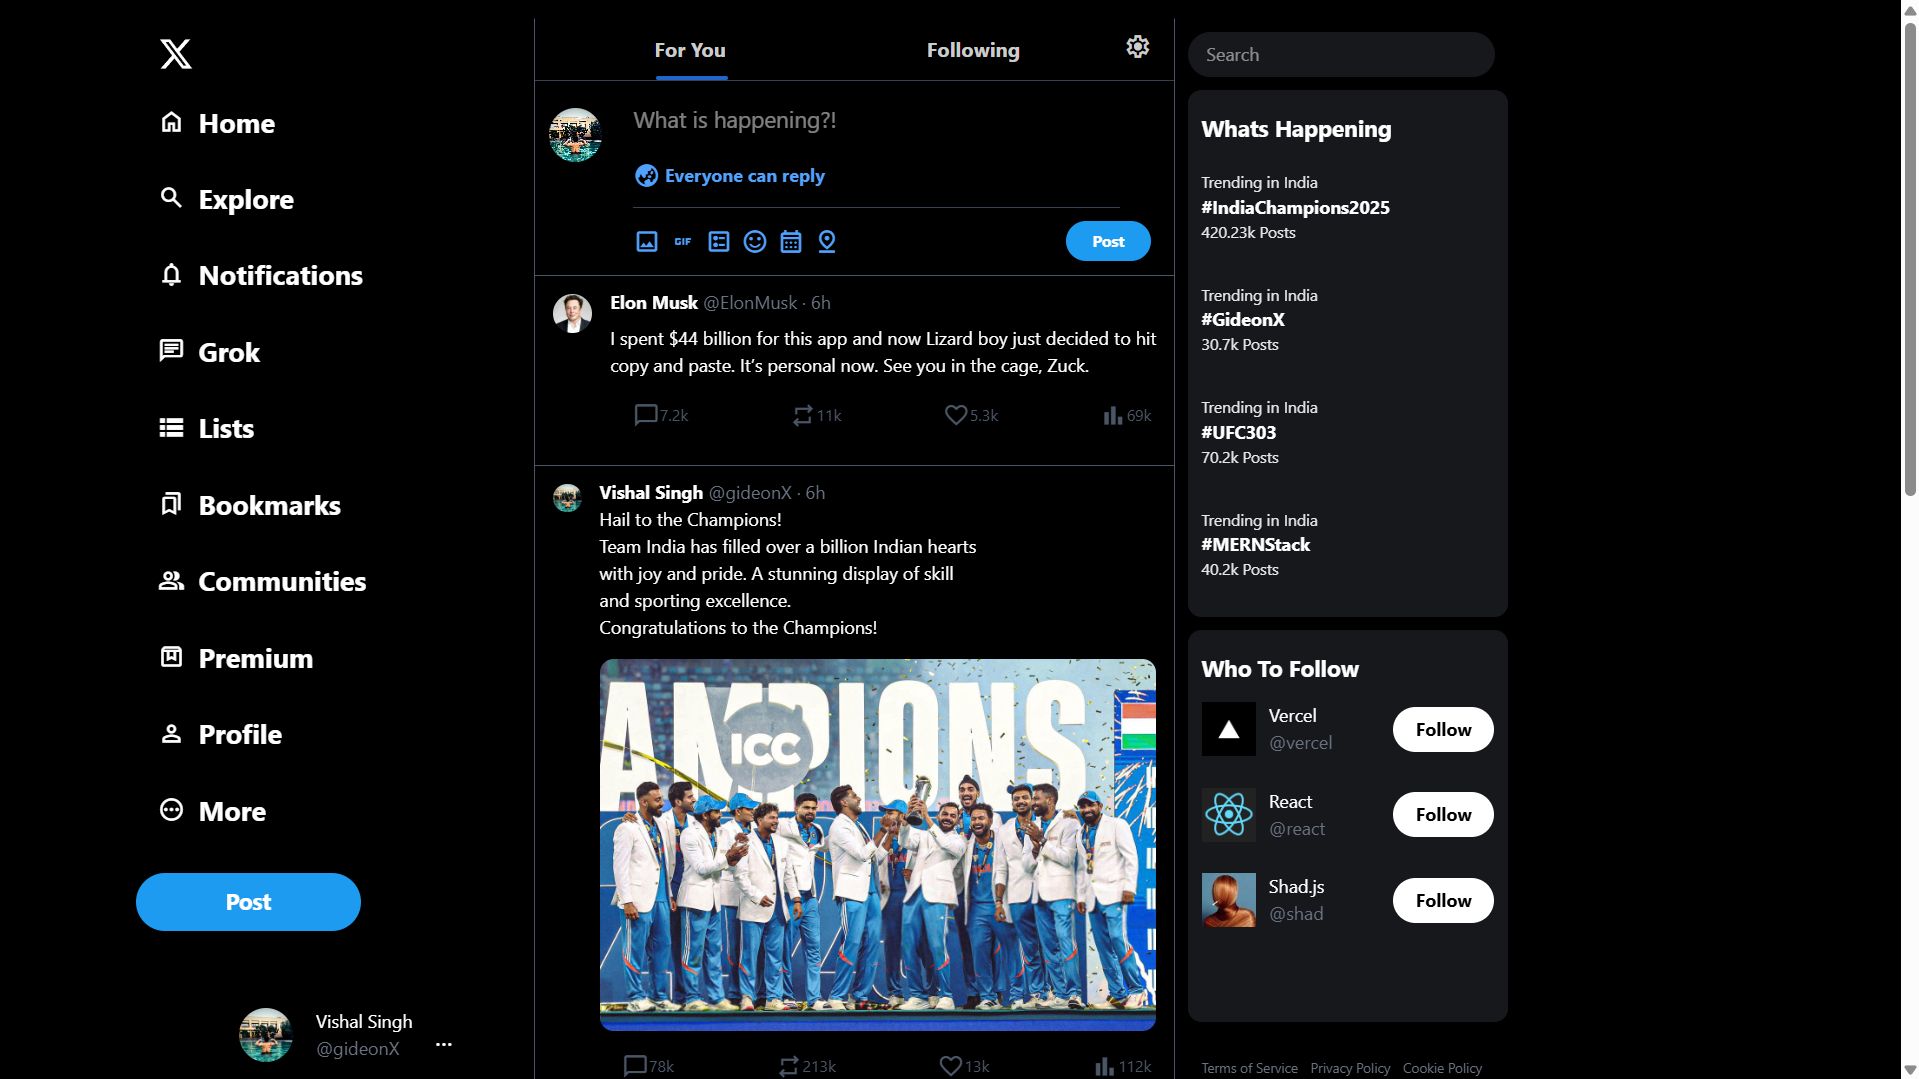
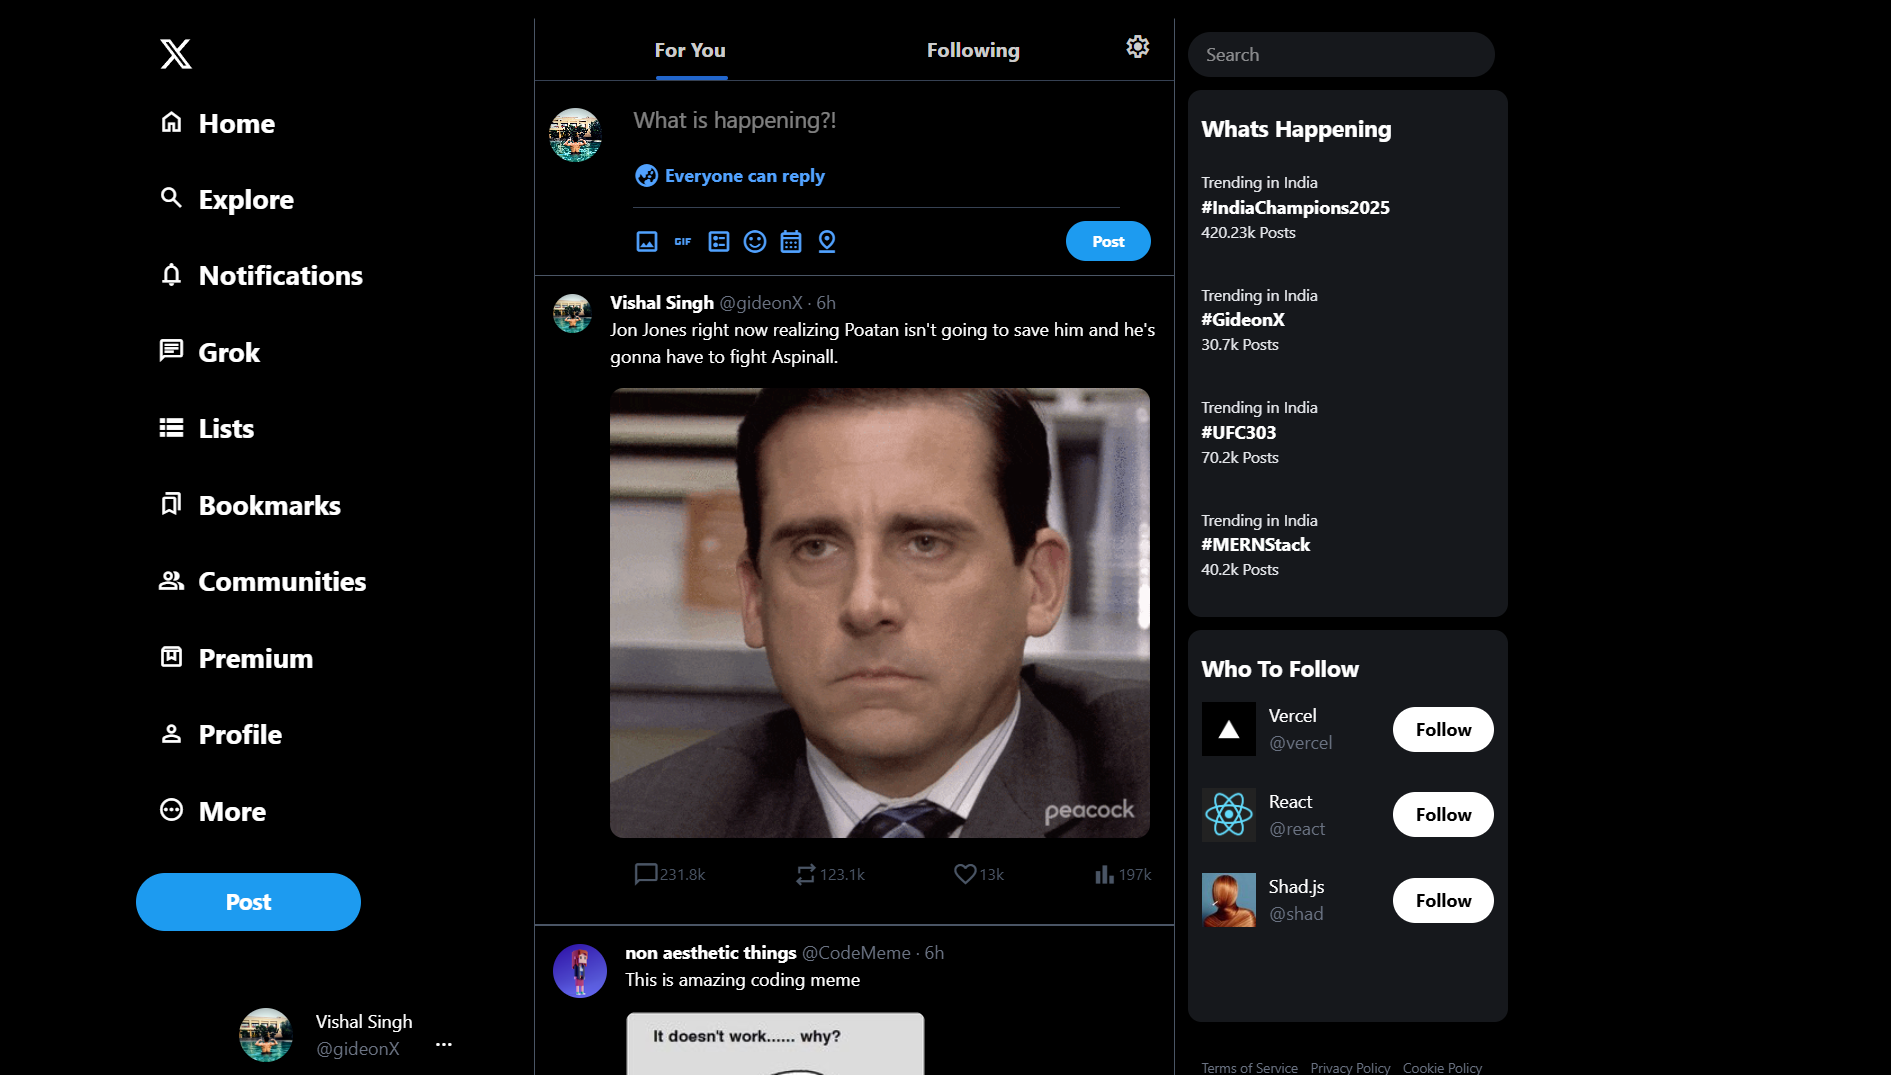
Uploading Project Files

diff --git a/index.html b/index.html
@@ -175,7 +175,106 @@
 
 
             <div class="posts">
-                <div class="post border-[1px] border-y-gray-600 border-x-0  ">
+                <div class="post border-[1px] border-y-gray-600 border-x-0"">
+                    <div class="flex">
+                        <div class="image m-4">
+                            <img class="w-12 rounded-full object-cover"
+                                src="v_pic.jpg"
+                                alt="">
+                        </div>
+                        <div class="content my-3">
+                            <span class="font-bold hover:underline cursor-pointer text-white">Vishal Singh</span> <span class="text-gray-500">@gideonX · 6h </span>
+                            <div>
+                                Jon Jones right now realizing
+                                
+                                 Poatan isn't going to save him 
+                                 
+                                 and he's gonna have to fight Aspinall. 
+                            </div>
+                            <div class="postimg m-4 ml-0">
+                                <img class="rounded-xl"
+                                    src="https://media0.giphy.com/media/v1.Y2lkPTc5MGI3NjExeWw4ZzN0ZjB3aGl4bWZxcm4xcnB0N2kwN2VneWZnb3NicTh3b29iciZlcD12MV9pbnRlcm5hbF9naWZfYnlfaWQmY3Q9Zw/BY8ORoRpnJDXeBNwxg/giphy.gif" alt="">
+                            </div>
+                            <div class="icons flex justify-between mx-4 my-4 text-sm text-gray-600">
+                                <div
+                                    class="icon flex items-center justify-center hover:text-blue-500 hover:bg-gray-900 hover:rounded-full p-1 hover:cursor-pointer">
+                                    <span class="material-symbols-outlined">
+                                        chat_bubble
+                                    </span> 231.8k
+                                </div>
+                                <div
+                                    class="icon flex items-center justify-center hover:text-green-500 hover:bg-gray-900 hover:rounded-full p-1 hover:cursor-pointer">
+                                    <span class="material-symbols-outlined">
+                                        repeat
+                                    </span> 123.1k
+                                </div>
+                                <div
+                                    class="icon flex items-center justify-center hover:text-pink-500 hover:bg-gray-900 hover:rounded-full p-1 hover:cursor-pointer">
+                                    <span class="material-symbols-outlined">
+                                        Favorite
+                                    </span> 13k
+                                </div>
+                                <div
+                                    class="icon flex items-center justify-center hover:text-blue-500 hover:bg-gray-900 hover:rounded-full p-1 hover:cursor-pointer">
+                                    <span class="material-symbols-outlined">
+                                        bar_chart
+                                    </span> 197k
+                                </div>
+
+                            </div>
+                        </div>
+                    </div>
+
+                </div>
+                <div class="post border-[1px] border-y-gray-600 border-x-0">
+                    <div class="flex">
+                        <div class="image m-4">
+                            <img class="w-12 rounded-full object-cover"
+                                src="https://pbs.twimg.com/profile_images/1724504100136439808/J8k8HnSD_bigger.png"
+                                alt="">
+                        </div>
+                        <div class="content my-3">
+                            <span class="font-bold hover:underline cursor-pointer text-white"> non aesthetic
+                                things</span> <span class="text-gray-500">@CodeMeme · 6h </span>
+                            <div>This is amazing coding meme</div>
+                            <div class="postimg m-4 ml-0">
+                                <img class="rounded-xl w-full"
+                                    src="https://s3.amazonaws.com/rails-camp-tutorials/blog/programming+memes/works-doesnt-work.jpg"
+                                    alt="">
+                            </div>
+                            <div class="icons flex justify-between mx-4 my-4 text-sm text-gray-600">
+                                <div
+                                    class="icon flex items-center justify-center hover:text-blue-500 hover:bg-gray-900 hover:rounded-full p-1 hover:cursor-pointer">
+                                    <span class="material-symbols-outlined">
+                                        chat_bubble
+                                    </span> 1k
+                                </div>
+                                <div
+                                    class="icon flex items-center justify-center hover:text-green-500 hover:bg-gray-900 hover:rounded-full p-1 hover:cursor-pointer">
+                                    <span class="material-symbols-outlined">
+                                        repeat
+                                    </span> 1k
+                                </div>
+                                <div
+                                    class="icon flex items-center justify-center hover:text-pink-500 hover:bg-gray-900 hover:rounded-full p-1 hover:cursor-pointer">
+                                    <span class="material-symbols-outlined">
+                                        Favorite
+                                    </span> 1k
+                                </div>
+                                <div
+                                    class="icon flex items-center justify-center hover:text-blue-500 hover:bg-gray-900 hover:rounded-full p-1 hover:cursor-pointer">
+                                    <span class="material-symbols-outlined">
+                                        bar_chart
+                                    </span> 1k
+                                </div>
+
+                            </div>
+                        </div>
+                    </div>
+
+                </div>
+                
+                <div class="post  border-[1px] border-y-gray-600 border-x-0 ">
                     <div class="flex">
                         <div class="image m-4">
                             <img class="w-16 rounded-full object-cover"
@@ -222,7 +321,6 @@
                     </div>
 
                 </div>
-
                 <div class="post">
                     <div class="flex">
                         <div class="image m-4">
@@ -275,105 +373,6 @@
                                     <span class="material-symbols-outlined">
                                         bar_chart
                                     </span> 112k
-                                </div>
-
-                            </div>
-                        </div>
-                    </div>
-
-                </div>
-                <div class="post">
-                    <div class="flex">
-                        <div class="image m-4">
-                            <img class="w-12 rounded-full object-cover"
-                                src="https://pbs.twimg.com/profile_images/1724504100136439808/J8k8HnSD_bigger.png"
-                                alt="">
-                        </div>
-                        <div class="content my-3">
-                            <span class="font-bold hover:underline cursor-pointer text-white"> non aesthetic
-                                things</span> <span class="text-gray-500">@CodeMeme · 6h </span>
-                            <div>This is amazing coding meme</div>
-                            <div class="postimg m-4 ml-0">
-                                <img class="rounded-xl w-full"
-                                    src="https://s3.amazonaws.com/rails-camp-tutorials/blog/programming+memes/works-doesnt-work.jpg"
-                                    alt="">
-                            </div>
-                            <div class="icons flex justify-between mx-4 my-4 text-sm text-gray-600">
-                                <div
-                                    class="icon flex items-center justify-center hover:text-blue-500 hover:bg-gray-900 hover:rounded-full p-1 hover:cursor-pointer">
-                                    <span class="material-symbols-outlined">
-                                        chat_bubble
-                                    </span> 1k
-                                </div>
-                                <div
-                                    class="icon flex items-center justify-center hover:text-green-500 hover:bg-gray-900 hover:rounded-full p-1 hover:cursor-pointer">
-                                    <span class="material-symbols-outlined">
-                                        repeat
-                                    </span> 1k
-                                </div>
-                                <div
-                                    class="icon flex items-center justify-center hover:text-pink-500 hover:bg-gray-900 hover:rounded-full p-1 hover:cursor-pointer">
-                                    <span class="material-symbols-outlined">
-                                        Favorite
-                                    </span> 1k
-                                </div>
-                                <div
-                                    class="icon flex items-center justify-center hover:text-blue-500 hover:bg-gray-900 hover:rounded-full p-1 hover:cursor-pointer">
-                                    <span class="material-symbols-outlined">
-                                        bar_chart
-                                    </span> 1k
-                                </div>
-
-                            </div>
-                        </div>
-                    </div>
-
-                </div>
-                <div class="post">
-                    <div class="flex">
-                        <div class="image m-4">
-                            <img class="w-12 rounded-full object-cover"
-                                src="v_pic.jpg"
-                                alt="">
-                        </div>
-                        <div class="content my-3">
-                            <span class="font-bold hover:underline cursor-pointer text-white"> non aesthetic
-                                things</span> <span class="text-gray-500">@PicturesFoIder · 6h </span>
-                            <div>
-                                Jon Jones right now realizing
-                                <br>
-                                 Poatan isn't going to save him 
-                                 <br>
-                                 and he's gonna have to fight Aspinall. 
-                            </div>
-                            <div class="postimg m-4 ml-0">
-                                <img class="rounded-xl"
-                                    src="https://media0.giphy.com/media/v1.Y2lkPTc5MGI3NjExeWw4ZzN0ZjB3aGl4bWZxcm4xcnB0N2kwN2VneWZnb3NicTh3b29iciZlcD12MV9pbnRlcm5hbF9naWZfYnlfaWQmY3Q9Zw/BY8ORoRpnJDXeBNwxg/giphy.gif" alt="">
-                            </div>
-                            <div class="icons flex justify-between mx-4 my-4 text-sm text-gray-600">
-                                <div
-                                    class="icon flex items-center justify-center hover:text-blue-500 hover:bg-gray-900 hover:rounded-full p-1 hover:cursor-pointer">
-                                    <span class="material-symbols-outlined">
-                                        chat_bubble
-                                    </span> 1k
-                                </div>
-                                <div
-                                    class="icon flex items-center justify-center hover:text-green-500 hover:bg-gray-900 hover:rounded-full p-1 hover:cursor-pointer">
-                                    <span class="material-symbols-outlined">
-                                        repeat
-                                    </span> 1k
-                                </div>
-                                <div
-                                    class="icon flex items-center justify-center hover:text-pink-500 hover:bg-gray-900 hover:rounded-full p-1 hover:cursor-pointer">
-                                    <span class="material-symbols-outlined">
-                                        Favorite
-                                    </span> 1k
-                                </div>
-                                <div
-                                    class="icon flex items-center justify-center hover:text-blue-500 hover:bg-gray-900 hover:rounded-full p-1 hover:cursor-pointer">
-                                    <span class="material-symbols-outlined">
-                                        bar_chart
-                                    </span> 1k
                                 </div>
 
                             </div>
